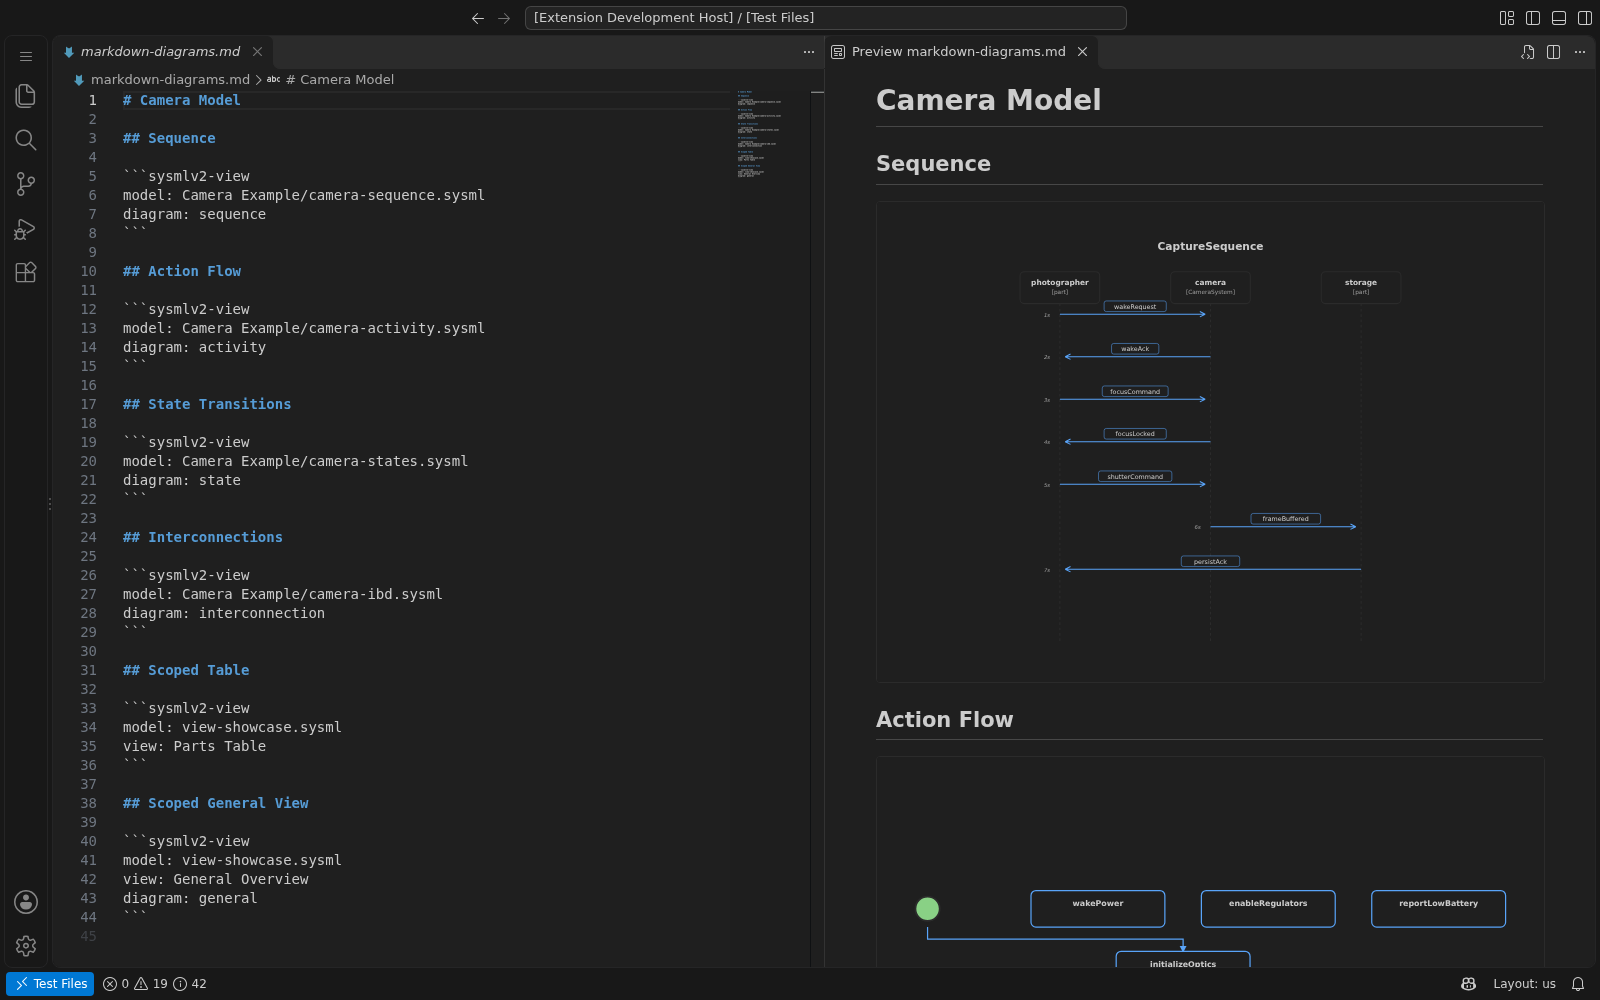
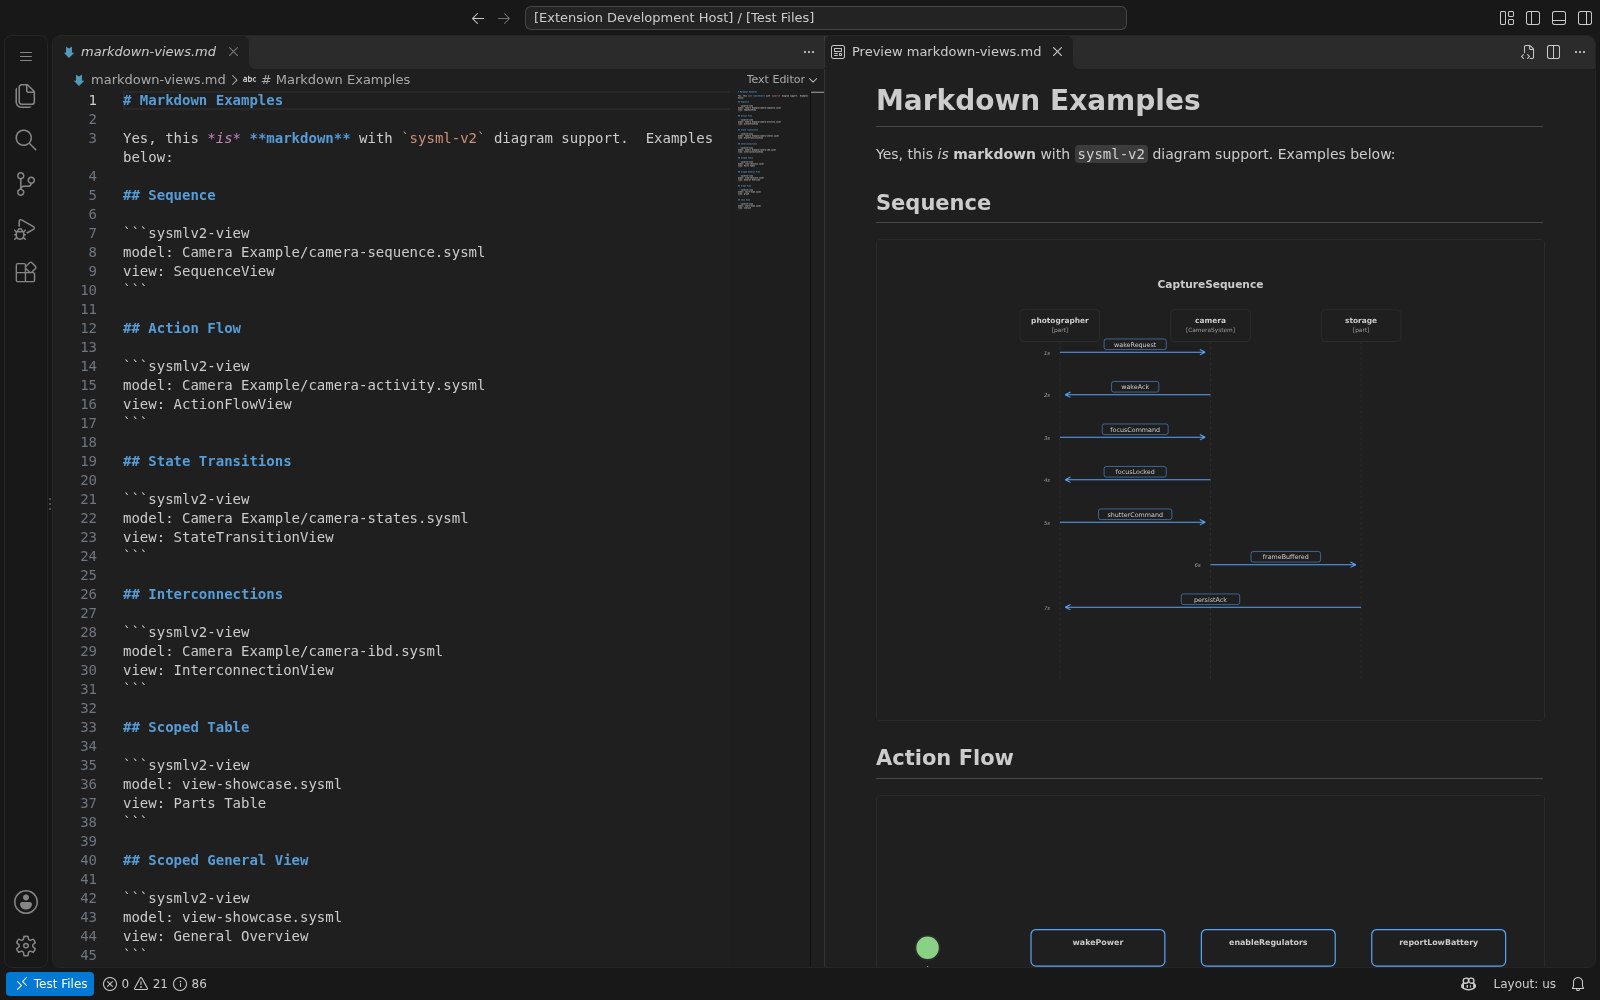
feat: enhance Markdown preview with SysML view support and update examples

diff --git a/src/test/markdownPreview.test.ts b/src/test/markdownPreview.test.ts
@@ -297,9 +297,9 @@ suite('Markdown diagram fences', () => {
         namespace.children[0].attributes.partType = 'Custom';
         assert.throws(() => selectView([namespace], { model: 'a.sysml', view: 'Pkg::chosen' }), /Cyclic/);
     });
-    test('accepts quoted paths, comments, and supported diagram types', () => {
-        assert.deepStrictEqual(parseFence('model: "../Camera Example/Camera.sysml"\nview: takePicture\ndiagram: sequence # diagram'), {
-            model: '../Camera Example/Camera.sysml', view: 'takePicture', diagram: 'sequence',
+    test('accepts quoted paths and comments', () => {
+        assert.deepStrictEqual(parseFence('model: "../Camera Example/Camera.sysml"\nview: SequenceView # view'), {
+            model: '../Camera Example/Camera.sysml', view: 'SequenceView',
         });
     });
 
@@ -307,8 +307,7 @@ suite('Markdown diagram fences', () => {
         for (const source of [
             '', 'view: demo', 'model: a.sysml\nextra: true',
             'model: a.sysml\nmodel: b.sysml', 'model: [a.sysml]',
-            'model: *alias', 'model: !!str a.sysml', 'model: a.sysml\ndiagram: invalid',
-            'model: a.sysml\ndiagram: __proto__',
+            'model: *alias', 'model: !!str a.sysml', 'model: a.sysml\ndiagram: sequence',
         ]) assert.throws(() => parseFence(source), source);
     });
 
@@ -334,12 +333,20 @@ suite('Markdown diagram fences', () => {
         } finally { vscode.Uri.joinPath = original; }
     });
 
-    test('diagram precedence is explicit, rendering, definition type, general', () => {
+    test('view resolves a model view usage, else a standard or extension view type', () => {
         const view = element('diagram', 'view', {
             partType: 'StandardViewDefinitions::SequenceView', viewRendering: 'Views::asElementTable',
             exposeTargets: 'System, System::*', viewFilters: '@PartUsage',
         });
-        assert.strictEqual(selectView([view], { model: 'a.sysml', view: 'diagram', diagram: 'activity' }).currentView, 'activity');
+        assert.strictEqual(selectView([], { model: 'a.sysml', view: 'ActionFlowView' }).currentView, 'activity');
+        assert.strictEqual(selectView([], { model: 'a.sysml', view: 'SequenceView' }).currentView, 'sequence');
+        assert.strictEqual(selectView([], { model: 'a.sysml', view: 'GridView' }).currentView, 'table');
+        assert.strictEqual(selectView([], { model: 'a.sysml', view: 'graph' }).currentView, 'graph');
+        assert.strictEqual(selectView([], { model: 'a.sysml', view: 'hierarchy' }).currentView, 'hierarchy');
+        assert.strictEqual(selectView([], { model: 'a.sysml', view: 'sequence' }).currentView, 'sequence');
+        assert.throws(() => selectView([], { model: 'a.sysml', view: 'GeometryView' }), /not supported/);
+        assert.strictEqual(selectView([view], { model: 'a.sysml', view: 'SequenceView' }).selectedViewScope, undefined);
+        assert.throws(() => selectView([], { model: 'a.sysml', view: 'NotAView' }), /View not found/);
         assert.strictEqual(selectView([view], { model: 'a.sysml', view: 'diagram' }).currentView, 'table');
         delete view.attributes.viewRendering;
         assert.strictEqual(selectView([view], { model: 'a.sysml', view: 'diagram' }).currentView, 'sequence');
@@ -495,7 +502,7 @@ suite('Native Markdown preview integration', () => {
         const folder = vscode.workspace.workspaceFolders?.[0];
         assert.ok(folder, 'Integration test requires the repository workspace.');
         const uri = vscode.Uri.joinPath(folder.uri, '.markdown-preview-integration.md');
-        const content = '```sysmlv2-view\nmodel: Camera Example/camera-sequence.sysml\ndiagram: sequence\n```\n'
+        const content = '```sysmlv2-view\nmodel: Camera Example/camera-sequence.sysml\nview: SequenceView\n```\n'
             + '\n```sysmlv2-view\nmodel: Camera Example/camera-sequence.sysml\nview: missing-view\n```\n';
         try {
             await vscode.workspace.fs.writeFile(uri, new globalThis.TextEncoder().encode(content));

diff --git a/src/visualization/core/viewScope.ts b/src/visualization/core/viewScope.ts
@@ -1,4 +1,4 @@
-import { DiagramFence, DIAGRAM_TYPES } from '../../markdown/fenceParser';
+import { DiagramFence, VIEW_TYPES } from '../../markdown/fenceParser';
 import { SysMLElementDTO } from '../../providers/sysmlModelTypes';
 
 export interface ViewScope {
@@ -9,21 +9,16 @@ export interface ViewScope {
     readonly viewType?: string;
 }
 
-const VIEW_TYPES: Readonly<Record<string, string>> = {
-    GeneralView: 'elk', InterconnectionView: 'ibd', ActionFlowView: 'activity',
-    StateTransitionView: 'state', SequenceView: 'sequence', BrowserView: 'tree',
-    CaseView: 'usecase', PackageView: 'package',
-};
 const RENDERINGS: Readonly<Record<string, string>> = {
     asTreeDiagram: 'tree', asInterconnectionDiagram: 'ibd',
     asTextualNotation: 'textual', asElementTable: 'table',
 };
 
-/** Select a named view and diagram; filtering is applied by the shared renderer. */
+/** Select a model view usage, else a standard/extension view type; filtering is applied by the shared renderer. */
 export function selectView(
     elements: readonly SysMLElementDTO[],
     fence: DiagramFence,
-): { currentView: string; selectedViewScope?: ViewScope } {
+): { currentView: string; explicitDiagram: boolean; selectedViewScope?: ViewScope } {
     const matches: { element: SysMLElementDTO; qualified: string }[] = [];
     const definitions = new Map<string, SysMLElementDTO>();
     const visit = (members: readonly SysMLElementDTO[], parent = ''): void => {
@@ -39,6 +34,12 @@ export function selectView(
         }
     };
     visit(elements);
+    if (fence.view === 'GeometryView' && !matches.length) {
+        throw new Error('GeometryView is not supported by the current renderer.');
+    }
+    if (fence.view && !matches.length && Object.hasOwn(VIEW_TYPES, fence.view)) {
+        return { currentView: VIEW_TYPES[fence.view], explicitDiagram: true };
+    }
     if (fence.view && matches.length !== 1) {
         throw new Error(matches.length ? `Ambiguous view: ${fence.view}. Use its qualified name.`
             : `View not found: ${fence.view}`);
@@ -81,8 +82,9 @@ export function selectView(
         .split(',').map(target => target.trim()).filter(Boolean);
     const rendering = String(attributes.viewRendering ?? '');
     return {
-        currentView: (fence.diagram ? DIAGRAM_TYPES[fence.diagram] : undefined)
-            ?? RENDERINGS[shortName(rendering)] ?? VIEW_TYPES[shortName(inherited.viewType)] ?? 'elk',
+        currentView: RENDERINGS[shortName(rendering)]
+            ?? VIEW_TYPES[shortName(inherited.viewType)] ?? 'elk',
+        explicitDiagram: false,
         selectedViewScope: element ? {
             name: element.name,
             exposeTargets: split(attributes.exposeTargets),

diff --git a/src/markdown/fenceParser.ts b/src/markdown/fenceParser.ts
@@ -4,10 +4,14 @@ import { isMap, isScalar, parseDocument } from 'yaml';
 export interface DiagramFence {
     readonly model: string;
     readonly view?: string;
-    readonly diagram?: string;
 }
 
-export const DIAGRAM_TYPES: Readonly<Record<string, string>> = {
+/** Supported standard view definitions, Visualizer views, and renderer aliases. */
+export const VIEW_TYPES: Readonly<Record<string, string>> = {
+    GeneralView: 'elk', InterconnectionView: 'ibd', ActionFlowView: 'activity',
+    StateTransitionView: 'state', SequenceView: 'sequence', BrowserView: 'tree',
+    GridView: 'table',
+    CaseView: 'usecase', PackageView: 'package',
     general: 'elk', elk: 'elk', interconnection: 'ibd', ibd: 'ibd',
     sequence: 'sequence', activity: 'activity', state: 'state',
     usecase: 'usecase', case: 'usecase', tree: 'tree', browser: 'tree',
@@ -20,10 +24,10 @@ export function parseFence(source: string): DiagramFence {
     if (source.length > 4096) throw new Error('SysML fence exceeds 4 KB.');
     const document = parseDocument(source, { uniqueKeys: true, schema: 'failsafe' });
     if (document.errors.length) throw new Error(document.errors[0].message);
-    if (!isMap(document.contents)) throw new Error('Expected model, view, and diagram fields.');
+    if (!isMap(document.contents)) throw new Error('Expected model and view fields.');
     const fields: Record<string, string> = {};
     for (const item of document.contents.items) {
-        if (!isScalar(item.key) || !['model', 'view', 'diagram'].includes(String(item.key.value))) {
+        if (!isScalar(item.key) || !['model', 'view'].includes(String(item.key.value))) {
             throw new Error('Unknown SysML fence field.');
         }
         if (!isScalar(item.value) || typeof item.value.value !== 'string'
@@ -33,10 +37,7 @@ export function parseFence(source: string): DiagramFence {
         fields[String(item.key.value)] = item.value.value.trim();
     }
     if (!fields.model) throw new Error('A model path is required.');
-    if (fields.diagram && !Object.hasOwn(DIAGRAM_TYPES, fields.diagram)) {
-        throw new Error(`Unknown diagram type: ${fields.diagram}`);
-    }
-    return { model: fields.model, view: fields.view, diagram: fields.diagram };
+    return { model: fields.model, view: fields.view };
 }
 
 /** Resolve relative model paths without allowing URI or workspace boundary escapes. */

diff --git a/src/markdown/markdownItPlugin.ts b/src/markdown/markdownItPlugin.ts
@@ -49,10 +49,10 @@ export function installMarkdownPlugin(
             };
             visit(entry.value.elements ?? []);
             const payload = JSON.stringify({
-                ...modelSnapshot(entry.value), ...selected, explicitDiagram: !!fence.diagram,
+                ...modelSnapshot(entry.value), ...selected,
             });
             if (payload.length > MAX_MODEL_BYTES) throw new Error('Diagram payload exceeds 2 MB.');
-            return `<div class="sysml-md" role="figure" aria-label="${escapeHtml(fence.view ?? fence.diagram ?? 'SysML diagram')}" data-payload="${escapeHtml(payload)}"></div>`;
+            return `<div class="sysml-md" role="figure" aria-label="${escapeHtml(fence.view ?? 'SysML diagram')}" data-payload="${escapeHtml(payload)}"></div>`;
         } catch (error) {
             const message = error instanceof Error ? error.message : 'Unable to render SysML diagram.';
             if (modelUri && /(?:preview .*limit|exceeds 2 MB|2 MB preview limit)/i.test(message)) {

diff --git a/src/markdown/exportDiagrams.ts b/src/markdown/exportDiagrams.ts
@@ -80,7 +80,7 @@ export function registerMarkdownExport(
                 }
                 payloads.push({
                     ...modelSnapshot(model), ...selectView(model.elements ?? [], fence),
-                    explicitDiagram: !!fence.diagram, readOnly: true, exportOnRender: true,
+                    readOnly: true, exportOnRender: true,
                     exportRequestId: payloads.length + 1,
                 });
             }

diff --git a/README.md b/README.md
@@ -148,19 +148,22 @@ to the saved Markdown document and must stay inside a workspace folder.
 ````markdown
 ```sysmlv2-view
 model: ../samples/Camera Example/camera-sequence.sysml
-diagram: sequence
+view: SequenceView
 ```
 ````
 
-`model` is required. Optional `view` selects a named SysML view usage, including its expose
-targets and filters; qualify ambiguous names with `Package::View`. Optional `diagram`
-overrides the view's rendering directive and definition type. With neither, the General
-View is used.
+`model` is required. `view` is optional and is either the name of a view usage in the model,
+including its expose targets and filters (qualify ambiguous names with `Package::View`), or a
+standard view definition from the SysML v2 specification: `GeneralView`, `InterconnectionView`,
+`ActionFlowView`, `StateTransitionView`, `SequenceView`, `BrowserView`, and `GridView`. A model
+view takes precedence over a type name. The Visualizer's extra diagrams are also available:
+`CaseView`, `PackageView`, `graph`, `hierarchy`, and `textual`, along with renderer aliases such
+as `usecase`, `tree`, and `table`. `GeometryView` is not currently supported by the renderer.
+Without `view`, the General View is used.
 
-Supported diagrams: `general`, `interconnection`, `sequence`, `activity`, `state`, `usecase`,
-`tree`, `graph`, `hierarchy`, `package`, `table`, and `textual`. Diagrams share the Visualizer's
-renderers, update when referenced models change, and allow pan/zoom without model editing.
-Unknown/duplicate fields and missing models/views appear as inline errors.
+Diagrams share the Visualizer's renderers, update when referenced models change, and allow
+pan/zoom without model editing. Unknown/duplicate fields and missing models/views appear as
+inline errors.
 
 Preview limits are 2 MB per model/payload, 1,000 elements, and 64 nesting levels. Larger
 models show a link to open the Model Visualizer.
@@ -170,7 +173,7 @@ editor. Choose an output Markdown file; the command saves adjacent SVGs and repl
 with image references in the copy, leaving the original document and models unchanged.
 List and blockquote containers are preserved.
 
-Try [the sample document](samples/markdown-diagrams.md). Developers can run
+Try [the sample document](samples/markdown-views.md). Developers can run
 `npm run preview:markdown` for a local browser harness backed by the real language server.
 
 ### Commands (Ctrl+Shift+P)

diff --git a/samples/markdown-views.md b/samples/markdown-views.md
@@ -1,31 +1,33 @@
-# Camera Model
+# Markdown Examples
+
+Yes, this *is* **markdown** with `sysml-v2` diagram support.  Examples below:
 
 ## Sequence
 
 ```sysmlv2-view
 model: Camera Example/camera-sequence.sysml
-diagram: sequence
+view: SequenceView
 ```
 
 ## Action Flow
 
 ```sysmlv2-view
 model: Camera Example/camera-activity.sysml
-diagram: activity
+view: ActionFlowView
 ```
 
 ## State Transitions
 
 ```sysmlv2-view
 model: Camera Example/camera-states.sysml
-diagram: state
+view: StateTransitionView
 ```
 
 ## Interconnections
 
 ```sysmlv2-view
 model: Camera Example/camera-ibd.sysml
-diagram: interconnection
+view: InterconnectionView
 ```
 
 ## Scoped Table
@@ -40,5 +42,18 @@ view: Parts Table
 ```sysmlv2-view
 model: view-showcase.sysml
 view: General Overview
-diagram: general
+```
+
+## Graph View
+
+```sysmlv2-view
+model: smart-home.sysml
+view: graph
+```
+
+## Case View
+
+```sysmlv2-view
+model: smart-home.sysml
+view: usecase
 ```

diff --git a/CHANGELOG.md b/CHANGELOG.md
@@ -5,7 +5,8 @@
 ### Added
 
 - Render referenced SysML/KerML models in built-in Markdown preview with `sysmlv2-view`
-  YAML fences, named view scoping, all Visualizer diagram types, and read-only pan/zoom.
+  YAML fences, named view scoping, standard SysML view names and Visualizer renderer views
+  such as `graph`, and read-only pan/zoom.
 - Share the Visualizer's snapshot conversion, shell, and renderers with Markdown preview;
   lazy-load local assets, deduplicate model loads, and batch refreshes after model changes.
 - Export Markdown fences to adjacent SVG images and a portable Markdown copy using
